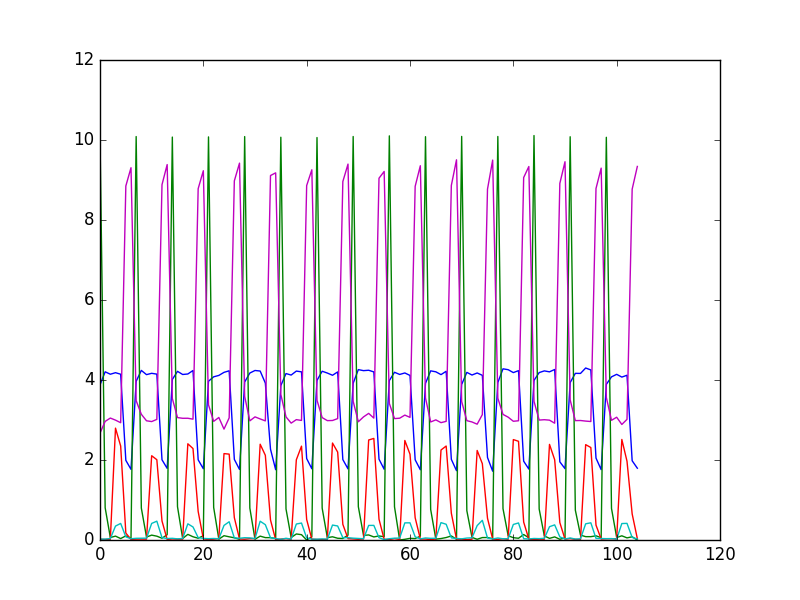
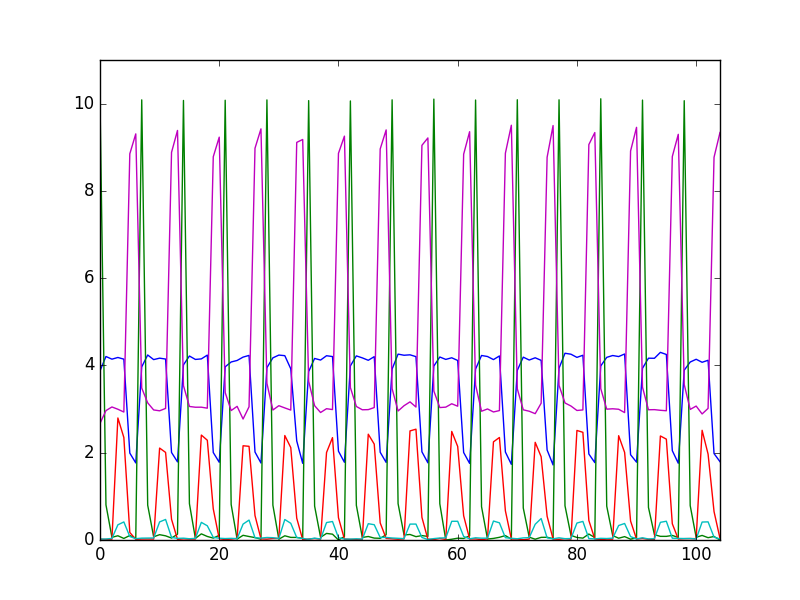
modify plot_size.py fix x axis range

diff --git a/plot_size.py b/plot_size.py
@@ -18,9 +18,8 @@ def load_dataset(untilweek, untilday):
         today = day
         index += 1
         data.append([0]*5)
-      
       workflow_ID = int(workflow_ID[-1])
-      data[index][workflow_ID] += float(backup_size)
+      data[index][workflow_ID] += float(backup_size) 
     print(len(data)) 
   csvfile.close()
   return data
@@ -30,13 +29,15 @@ for i in range(5):
   y = [day20[j][i] for j in range(20)]
   x = range(20)
   plt.plot(x, y)
+  plt.axis([0, 19, 0, 11])
 plt.savefig('plot/day20.png')
 plt.clf()
 
-day105 = load_dataset(8, "Monday")
+day105 = load_dataset("16", "Monday")
 for i in range(5):
   y = [day105[j][i] for j in range(105)]
   x = range(105)
+  plt.axis([0, 104, 0, 11])
   plt.plot(x, y)
 plt.savefig('plot/day105.png')
 plt.clf()
